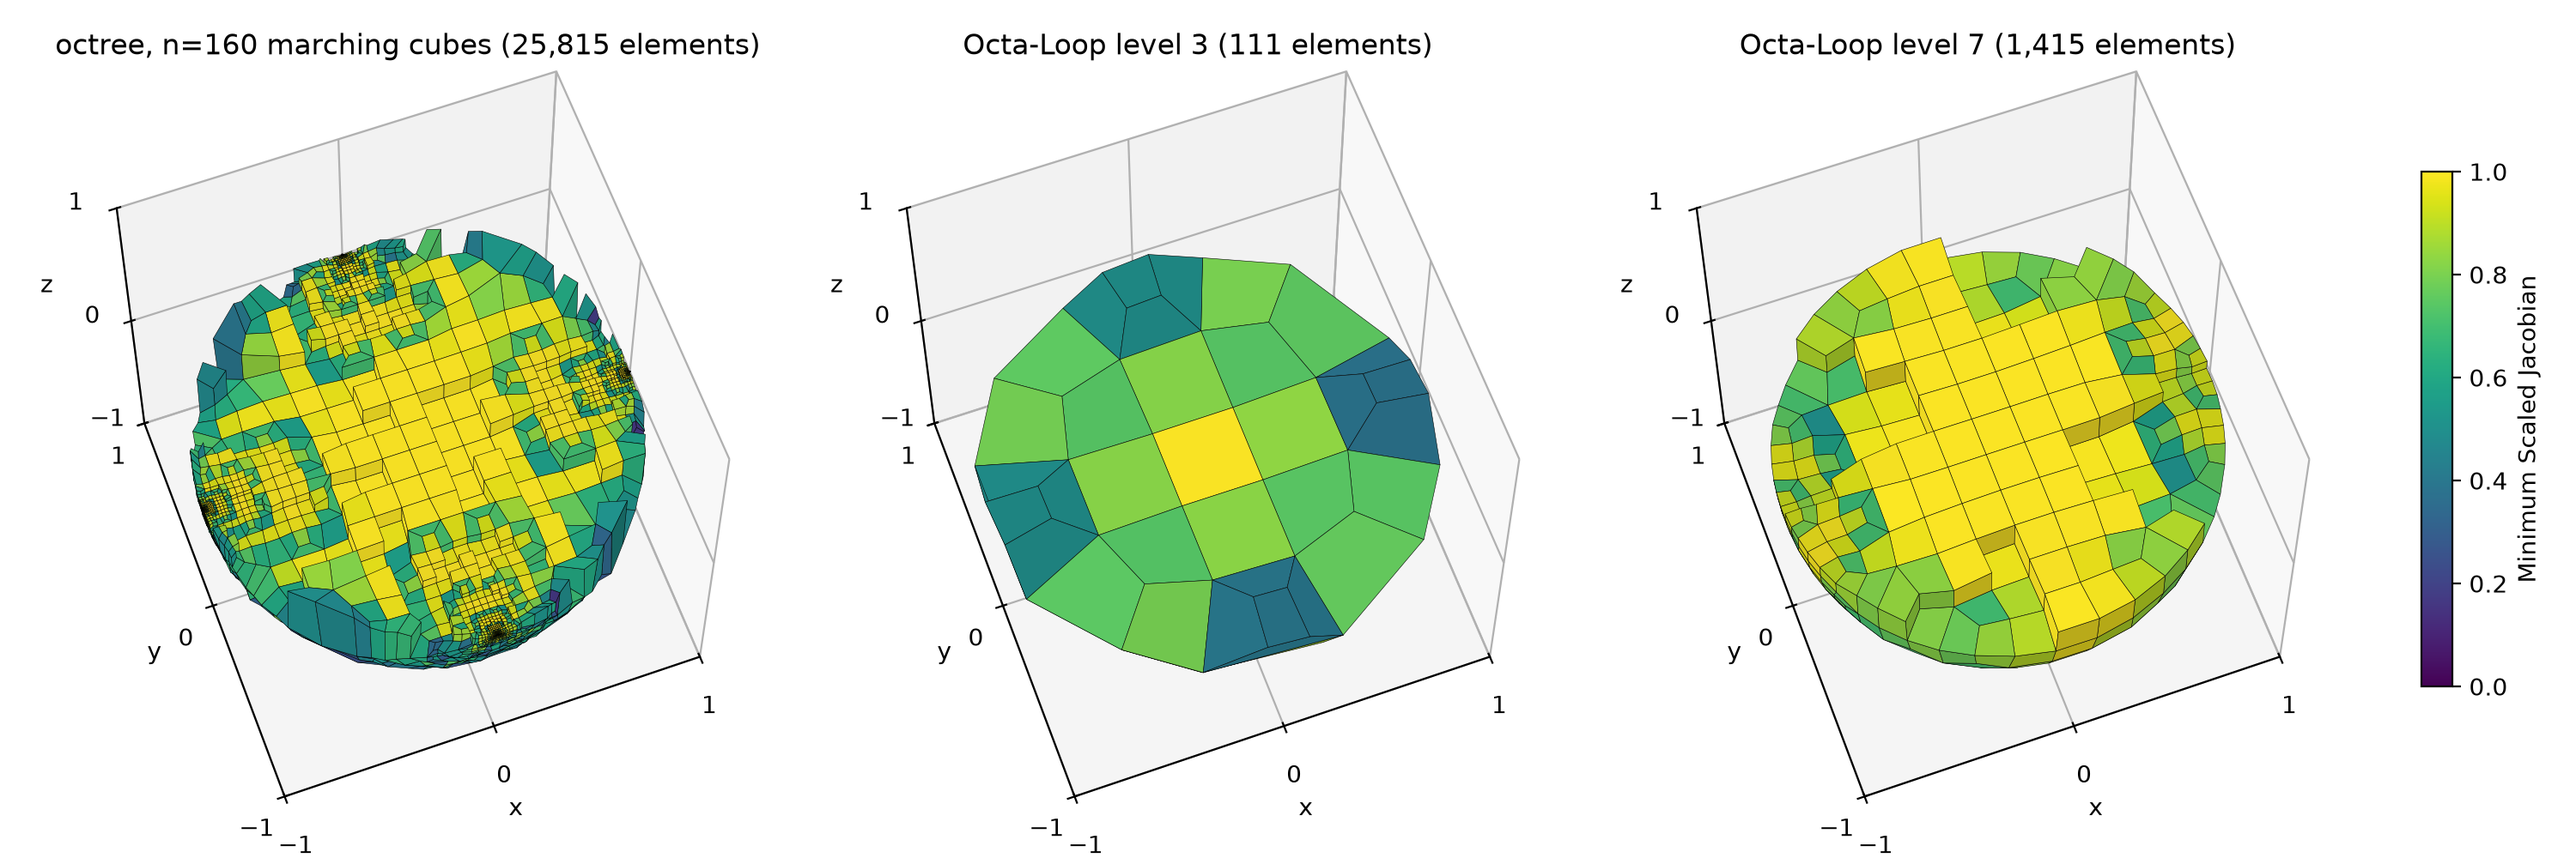
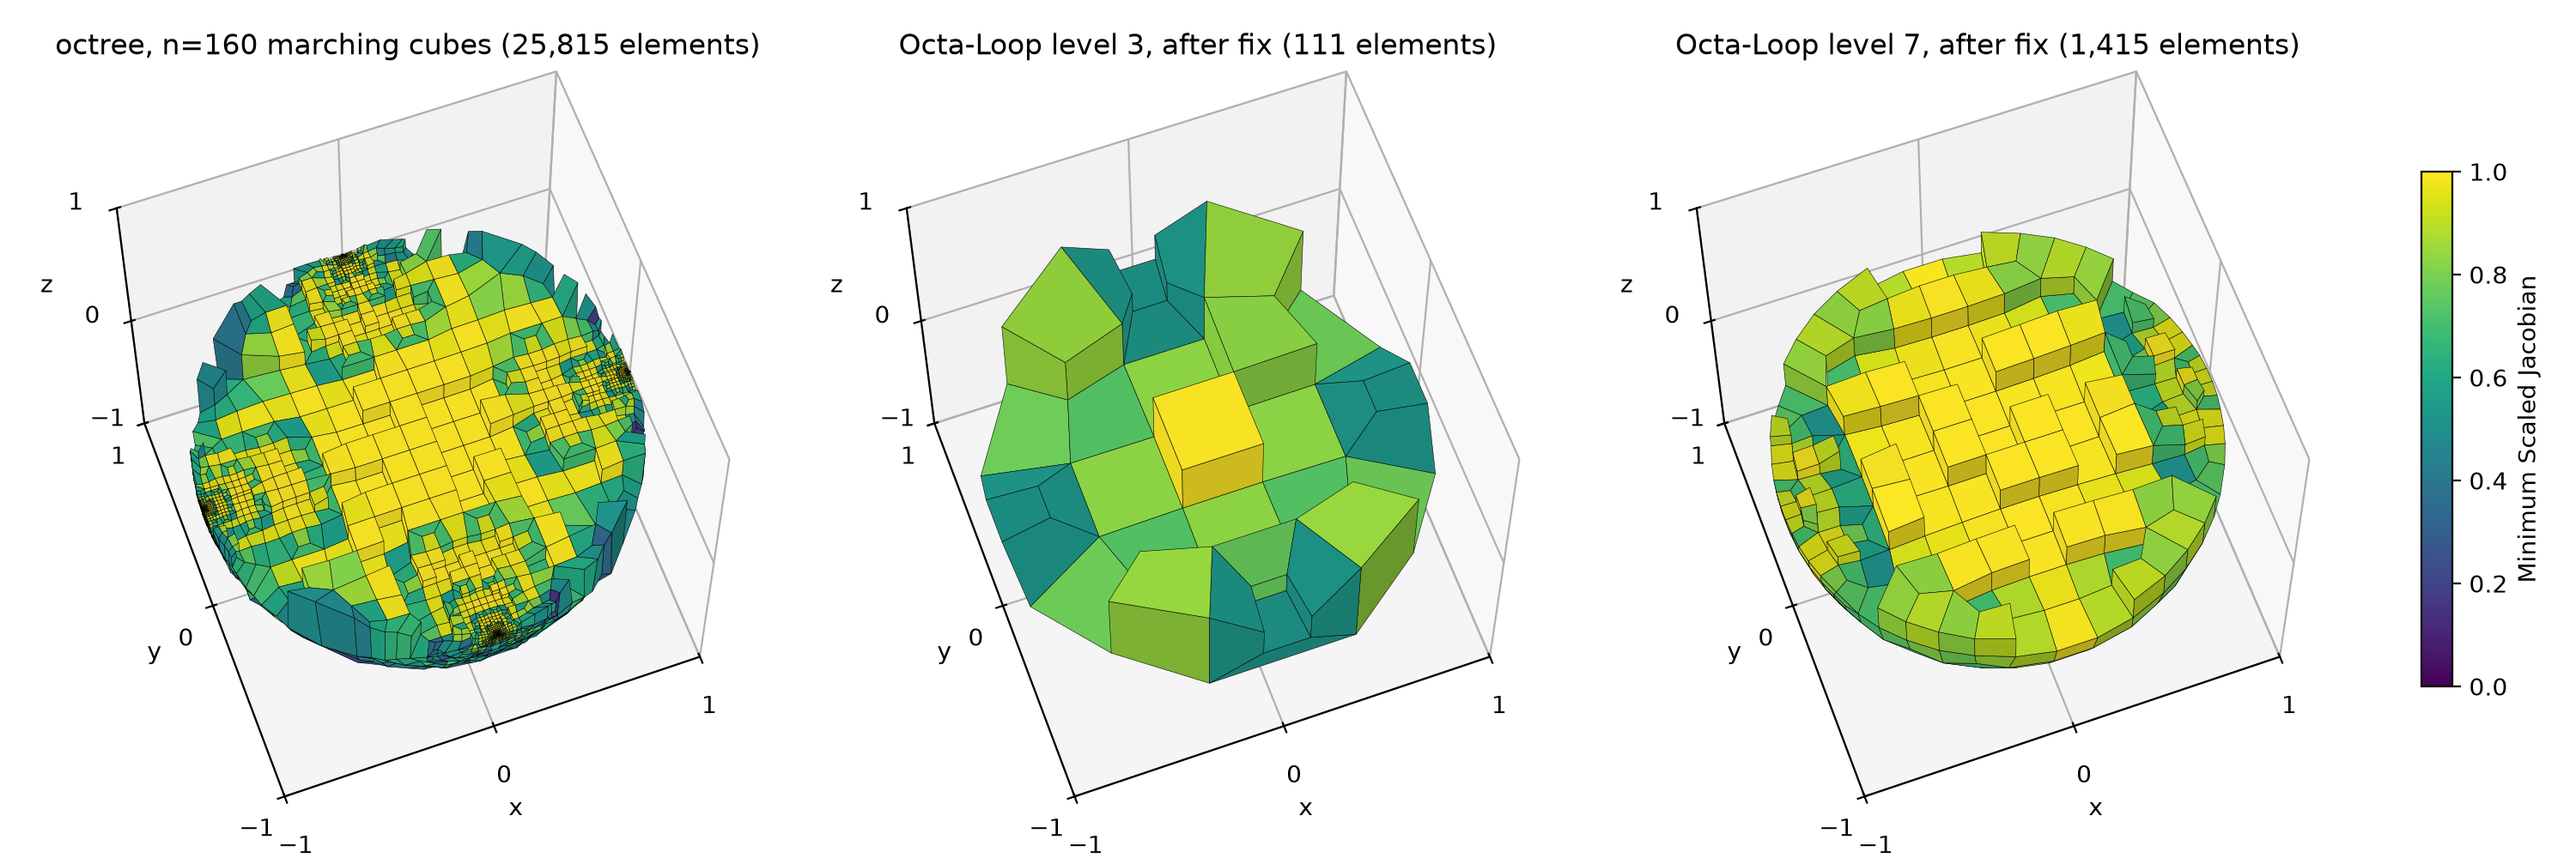
docs: rerun Octa-Loop controls with the conspire fix, keep the old results
Rerun the Octa-Loop level 3 and 7 octree meshes with the conspire fix of
Update 2.  Show the results from conspire 0.7.7 first, then the results
with the fix, so a reader can compare them.

Level 3 becomes exactly symmetric.  Its minimum scaled Jacobian rises
from 0.384 to 0.534, its mean from 0.749 to 0.767, and its largest skew
falls from 0.481 to 0.300.  Level 7 becomes exactly symmetric, and its
quality changes by 0.002 in the minimum.  The level 3 mesh volume rises
from 4.1909 to 4.2187, against 4.0926 for the input surface.  Update 3
records this cost.

Add a conspire column and before and after rows to the Control Study
table, and a second summary table above the Octa-Loop lists.  Present the
before-fix mesh, cut, and quality figures, then the after-fix ones.  The
marching cubes mesh and histogram curve still come from conspire 0.7.7,
and the page says so.

Extend unit_sphere_figures.py to draw both sets.  The before-fix set
reads unit_sphere_control_loopNN_pre_fix.inp and .csv.  With the original
panel titles, the script reproduced the three figures committed before
this change, byte for byte.  Panel titles now say "before fix" or "after
fix."  Add the three before-fix figures, and update the Reproducibility
section with the commands that make the before-fix meshes.

The after-fix meshes need an automesh built on a conspire that is not yet
released.  Update 3 describes the scratch build that made them.

diff --git a/book/examples/gallery/academic/unit_sphere_figures.py b/book/examples/gallery/academic/unit_sphere_figures.py
@@ -10,12 +10,19 @@
     unit_sphere_meshers_cut.png  the same meshes, cut at z = 0
     unit_sphere_quality.png      quality histograms of the n = 160 meshes
     unit_sphere_control.png      quality histograms of the octree control study
+    unit_sphere_control_pre_fix.png     the same, with the pre-fix Octa-Loop meshes
     unit_sphere_control_surfaces.png    the control study's three input surfaces
     unit_sphere_control_meshes.png      the control study's three octree meshes
     unit_sphere_control_meshes_cut.png  the same meshes, cut at z = 0
+    unit_sphere_control_meshes_pre_fix.png      the same meshes, pre-fix Octa-Loop
+    unit_sphere_control_meshes_cut_pre_fix.png  the pre-fix meshes, cut at z = 0
     unit_sphere_smooth_meshes.png       the octree meshes of the n = 160 surface, smoothed
     unit_sphere_smooth_meshes_cut.png   the same meshes, cut at z = 0
     unit_sphere_smooth_quality.png      quality histograms of the same three meshes
+
+The `_pre_fix` figures read `unit_sphere_control_loopNN_pre_fix.inp` and
+`.csv`.  Those files come from `automesh` built with `conspire` 0.7.7, before
+the fix of the Control Study.  See the Reproduce section of unit_sphere.md.
 
 Example
 -------
@@ -33,7 +40,9 @@ unit_sphere_convergence.png, unit_sphere_sculpt.png,
 unit_sphere_sculpt_cut.png, unit_sphere_meshers.png,
 unit_sphere_meshers_cut.png, unit_sphere_quality.png,
 unit_sphere_control.png, unit_sphere_control_surfaces.png,
-unit_sphere_control_meshes.png, unit_sphere_control_meshes_cut.png, unit_sphere_smooth_meshes.png,
+unit_sphere_control_pre_fix.png, unit_sphere_control_meshes.png,
+unit_sphere_control_meshes_cut.png, unit_sphere_control_meshes_pre_fix.png,
+unit_sphere_control_meshes_cut_pre_fix.png, unit_sphere_smooth_meshes.png,
 unit_sphere_smooth_meshes_cut.png, and unit_sphere_smooth_quality.png.
 """
 
@@ -71,8 +80,13 @@ MESHER_PANELS = (
 )
 CONTROL_PANELS = (
     ("octree, n=160 marching cubes", "unit_sphere_octree_n160"),
-    ("Octa-Loop level 3", "unit_sphere_control_loop03"),
-    ("Octa-Loop level 7", "unit_sphere_control_loop07"),
+    ("Octa-Loop level 3, after fix", "unit_sphere_control_loop03"),
+    ("Octa-Loop level 7, after fix", "unit_sphere_control_loop07"),
+)
+CONTROL_PANELS_PRE_FIX = (
+    ("octree, n=160 marching cubes", "unit_sphere_octree_n160"),
+    ("Octa-Loop level 3, before fix", "unit_sphere_control_loop03_pre_fix"),
+    ("Octa-Loop level 7, before fix", "unit_sphere_control_loop07_pre_fix"),
 )
 SMOOTH_PANELS = (
     ("octree, no smoothing", "unit_sphere_octree_n160"),
@@ -86,8 +100,13 @@ QUALITY_MESHES = (
 )
 CONTROL_MESHES = (
     ("octree, n=160 marching cubes", "unit_sphere_octree_n160.csv"),
-    ("octree, Octa-Loop level 3", "unit_sphere_control_loop03.csv"),
-    ("octree, Octa-Loop level 7", "unit_sphere_control_loop07.csv"),
+    ("Octa-Loop level 3, after fix", "unit_sphere_control_loop03.csv"),
+    ("Octa-Loop level 7, after fix", "unit_sphere_control_loop07.csv"),
+)
+CONTROL_MESHES_PRE_FIX = (
+    ("octree, n=160 marching cubes", "unit_sphere_octree_n160.csv"),
+    ("Octa-Loop level 3, before fix", "unit_sphere_control_loop03_pre_fix.csv"),
+    ("Octa-Loop level 7, before fix", "unit_sphere_control_loop07_pre_fix.csv"),
 )
 SMOOTH_MESHES = (
     ("octree, no smoothing", "unit_sphere_octree_n160.csv"),
@@ -505,6 +524,14 @@ def main() -> None:
         )
         meshes_plot(
             here=here,
+            panels=CONTROL_PANELS_PRE_FIX,
+            output="unit_sphere_control_meshes_cut_pre_fix.png"
+            if cut
+            else "unit_sphere_control_meshes_pre_fix.png",
+            cut=cut,
+        )
+        meshes_plot(
+            here=here,
             panels=SMOOTH_PANELS,
             output="unit_sphere_smooth_meshes_cut.png"
             if cut
@@ -513,6 +540,9 @@ def main() -> None:
         )
     quality_plot(here=here, meshes=QUALITY_MESHES, output="unit_sphere_quality.png")
     quality_plot(here=here, meshes=CONTROL_MESHES, output="unit_sphere_control.png")
+    quality_plot(
+        here=here, meshes=CONTROL_MESHES_PRE_FIX, output="unit_sphere_control_pre_fix.png"
+    )
     quality_plot(
         here=here, meshes=SMOOTH_MESHES, output="unit_sphere_smooth_quality.png"
     )

diff --git a/book/examples/gallery/academic/unit_sphere.md b/book/examples/gallery/academic/unit_sphere.md
@@ -599,35 +599,72 @@ staircase shows as concentric terrace rings around the top pole.  Octa-Loop
 level 3 shows its 512 flat facets.  Octa-Loop level 7 looks smooth.  The
 figure is produced by [`unit_sphere_figures.py`](#unit_sphere_figurespy).
 
-| surface | facets | facet edge (mean) | elements | MSJ min | MSJ mean |
-| :--- | ---: | ---: | ---: | ---: | ---: |
-| marching cubes, $n = 160$ | 964,568 | 0.00616 | 25,815 | −0.792 | 0.755 |
-| Octa-Loop level 3 | 512 | 0.23492 | 111 | 0.384 | 0.749 |
-| Octa-Loop level 7 | 131,072 | 0.01473 | 1,415 | 0.439 | 0.816 |
+| surface | `conspire` | facets | facet edge (mean) | elements | MSJ min | MSJ mean |
+| :--- | :--- | ---: | ---: | ---: | ---: | ---: |
+| marching cubes, $n = 160$ | 0.7.7 | 964,568 | 0.00616 | 25,815 | −0.792 | 0.755 |
+| Octa-Loop level 3, before fix | 0.7.7 | 512 | 0.23492 | 111 | 0.384 | 0.749 |
+| Octa-Loop level 3, after fix | fix | 512 | 0.23492 | 111 | 0.534 | 0.767 |
+| Octa-Loop level 7, before fix | 0.7.7 | 131,072 | 0.01473 | 1,415 | 0.439 | 0.816 |
+| Octa-Loop level 7, after fix | fix | 131,072 | 0.01473 | 1,415 | 0.441 | 0.816 |
+
+The before-fix rows and figures come from `conspire` 0.7.7.  The after-fix
+rows and figures come from a build of `conspire` with the fix of
+[Update 2](#update-2-2026-09-30), which is not yet released.  The marching
+cubes mesh comes from 0.7.7 in both sets.  See
+[Update 3](#update-3-2026-09-30).
+
+**Before the fix (`conspire` 0.7.7).**
+
+![unit_sphere_control_meshes_pre_fix.png](unit_sphere_control_meshes_pre_fix.png)
+
+Figure: The three `automesh` octree meshes shown with the element minimum
+scaled Jacobian, before the fix.  The $n = 160$ marching cubes surface (left),
+Octa-Loop level 3 (center), and Octa-Loop level 7 (right).  The marching cubes
+mesh has several small dark clusters of poor elements; neither control does.
+The Octa-Loop level 3 mesh is not symmetric across the coordinate planes.  The
+figure is produced by [`unit_sphere_figures.py`](#unit_sphere_figurespy).
+
+![unit_sphere_control_meshes_cut_pre_fix.png](unit_sphere_control_meshes_cut_pre_fix.png)
+
+Figure: A cut through the middle of the same three meshes, at $z = 0$, on
+the same scale, before the fix.  Only the elements whose centers lie below the
+plane are drawn.  The clusters from the full view sit at the boundary, dense
+knots of small elements; both controls stay coarse and regular throughout.
+The figure is produced by [`unit_sphere_figures.py`](#unit_sphere_figurespy).
+
+![unit_sphere_control_pre_fix.png](unit_sphere_control_pre_fix.png)
+
+Figure: Element quality of the octree meshing three surfaces, before the fix:
+the $n = 160$ marching cubes surface (solid, orange), Octa-Loop level 3
+(dashed, blue), and Octa-Loop level 7 (dotted, green).  Each panel is a
+histogram with a log scale on the count.  Only the marching cubes curve
+reaches below zero.  The figure is produced by
+[`unit_sphere_figures.py`](#unit_sphere_figurespy).
+
+**After the fix.**
 
 ![unit_sphere_control_meshes.png](unit_sphere_control_meshes.png)
 
-Figure: The three `automesh` octree meshes shown with the element minimum scaled
-Jacobian. The $n = 160$ marching cubes surface (left), Octa-Loop level 3 (center), and
-Octa-Loop level 7 (right).  The marching cubes mesh has several small dark
-clusters of poor elements; neither control does.  The figure is produced by
+Figure: The same three meshes after the fix.  The marching cubes mesh on the
+left is unchanged, from `conspire` 0.7.7.  The Octa-Loop level 3 mesh (center)
+is now symmetric across the coordinate planes, and its minimum scaled
+Jacobian rises from 0.384 to 0.534.  Level 7 (right) is also symmetric, and
+its quality changes by 0.002 in the minimum.  The figure is produced by
 [`unit_sphere_figures.py`](#unit_sphere_figurespy).
 
 ![unit_sphere_control_meshes_cut.png](unit_sphere_control_meshes_cut.png)
 
-Figure: A cut through the middle of the same three meshes, at $z = 0$, on
-the same scale.  Only the elements whose centers lie below the plane are
-drawn.  The clusters from the full view sit at the boundary, dense knots of
-small elements; both controls stay coarse and regular throughout.  The
-figure is produced by [`unit_sphere_figures.py`](#unit_sphere_figurespy).
+Figure: A cut through the middle of the same three meshes after the fix, at
+$z = 0$, on the same scale as the before-fix cut.  The marching cubes mesh is
+unchanged.  The figure is produced by
+[`unit_sphere_figures.py`](#unit_sphere_figurespy).
 
 ![unit_sphere_control.png](unit_sphere_control.png)
 
-Figure: Element quality of the octree meshing three surfaces: the $n = 160$
-marching cubes surface (solid, orange), Octa-Loop level 3 (dashed, blue),
-and Octa-Loop level 7 (dotted, green).  Each panel is a histogram with a log
-scale on the count.  Only the marching cubes curve reaches below zero.  The
-figure is produced by
+Figure: Element quality of the same three meshes after the fix, in the same
+styles and scales as the before-fix figure.  The Octa-Loop level 3 elements
+now come in symmetric groups of equal quality, so that curve has fewer and
+taller bars.  The figure is produced by
 [`unit_sphere_figures.py`](#unit_sphere_figurespy).
 
 Neither control mesh inverts an element.  Both stay at or above Sculpt's own
@@ -643,12 +680,23 @@ fixed-size lattice and never calls the octree or the shape diameter
 function, so it says nothing about why the uniform lattice's own quality
 also lags Sculpt's.
 
+| surface | `conspire` | elements | MSJ min | MSJ mean |
+| :--- | :--- | ---: | ---: | ---: |
+| marching cubes, $n = 160$ | 0.7.7 | 25,815 | −0.792 | 0.755 |
+| Octa-Loop level 3, before fix | 0.7.7 | 111 | 0.384 | 0.749 |
+| Octa-Loop level 3, after fix | fix | 111 | 0.534 | 0.767 |
+| Octa-Loop level 7, before fix | 0.7.7 | 1,415 | 0.439 | 0.816 |
+| Octa-Loop level 7, after fix | fix | 1,415 | 0.441 | 0.816 |
+
 **Octa-Loop level 3:**
 
 **Correction, 2026-09-30.**  Text struck through below states a cause that
 later experiments refuted.  It stays visible for the record.  The
 [Update](#update-2026-09-30) after the Observations gives the evidence.
 [Update 2](#update-2-2026-09-30) corrects two conclusions of that update.
+Everything in the two Octa-Loop lists and the Observations describes
+`conspire` 0.7.7 and the before-fix figures.  The table and the figures above
+also show the fix, from [Update 3](#update-3-2026-09-30).
 
 1. The Octa-Loop level 3 mesh (center panel) is visibly not symmetric across
    the $xy$, $yz$, and $zx$ planes, unlike the other meshes on this page.
@@ -850,12 +898,67 @@ Update 1 state the conclusions that this update replaces.
    times a nearest-point query, against 1.46 to 1.84 times for two walks.
    End-to-end times vary from $-3$% to $+12$% in single runs, because the
    optimizer takes a different path once the targets change.
-5. **Status and limits.**  `automesh` still pins `conspire` 0.7.7, so the
+5. **Status and limits.**  `automesh` still pins `conspire` 0.7.7.  ~~So the
    tables on this page keep their 0.7.7 values until the fix ships.  Then
-   the scripts must run again.  The constraint covers mirror planes
+   the scripts must run again.~~  [Update 3](#update-3-2026-09-30) reruns
+   the two Octa-Loop rows with the fix.  The constraint covers mirror planes
    perpendicular to the coordinate axes.  It does not cover rotational
    symmetry.  The second `fit` of `--snap` runs unconstrained, and the
    effect of `--snap` has not been measured.
+
+#### Update 3, 2026-09-30
+
+This update reruns the two Octa-Loop meshes with the fix of Update 2.  It
+adds the after-fix rows to the table and the three after-fix figures.  The
+before-fix rows and figures stay beside them for comparison.
+
+`automesh` 0.4.7 pins `conspire` 0.7.7.  So the rerun used a scratch copy of
+`automesh` built against the `conspire` branch of Update 2.  The branch moved
+`Dualization` from `ntree` to `mesh`, and `automesh` needed that two-line
+import change to compile.  The repository source did not change.
+The copy meshed both surfaces through `hex_write` in
+[`unit_sphere_mesh.py`](#unit_sphere_meshpy), with default options.  Before
+the rerun, the installed `automesh` reproduced the old rows exactly: 111
+elements with 0.384 and 0.749 at level 3, and 1,415 with 0.439 and 0.816 at
+level 7.
+
+| mesh | `conspire` | elements | MSJ min | MSJ mean | max edge ratio | max skew | mirror mismatch |
+| :--- | :--- | ---: | ---: | ---: | ---: | ---: | :--- |
+| Octa-Loop level 3 | 0.7.7 | 111 | 0.384 | 0.749 | 4.22 | 0.481 | 0.2348, 0.2348, 0.2725 |
+| Octa-Loop level 3 | fix | 111 | **0.534** | **0.767** | 4.15 | 0.300 | **0, 0, 0** |
+| Octa-Loop level 7 | 0.7.7 | 1,415 | 0.439 | 0.816 | 3.61 | 0.679 | 0.0143, 0.0143, 0.0143 |
+| Octa-Loop level 7 | fix | 1,415 | 0.441 | 0.816 | 3.60 | 0.678 | **0, 0, 0** |
+
+The mirror mismatch is the largest distance from a reflected node to the
+nearest node, for the $x$, $y$, and $z$ reflections, measured on the nodes
+that `automesh` wrote.
+
+1. **Level 3 improves in symmetry and in quality.**  The mesh is now
+   exactly symmetric.  The minimum scaled Jacobian rises by 0.150, the mean
+   by 0.018, and the largest skew falls from 0.481 to 0.300.  The element
+   count does not change.  The center panel of the first after-fix figure
+   shows the symmetric mesh.
+2. **Level 7 changes in symmetry only.**  The mismatch falls from 0.0143 to
+   exactly 0.  The quality changes by 0.002 in the minimum and not at all in
+   the mean.
+3. **Level 3 gets less accurate in volume.**  The input surface encloses
+   4.0926, which is 2.30% below the exact $4\pi/3 \approx 4.1888$.  The old
+   mesh encloses 4.1909, which is 2.40% above the surface and 0.05% above the
+   sphere.  The two errors nearly cancelled.  The new mesh encloses 4.2187,
+   which is 3.08% above the surface and 0.71% above the sphere.  At level 7,
+   the volume goes from 4.2036 to 4.2039, which is 0.37% above the surface.
+   The cause at level 3 is not isolated.
+4. **The table now mixes two `conspire` builds.**  The marching cubes row,
+   and the marching cubes curve of the quality histogram, still come from
+   `conspire` 0.7.7.  Rerunning them with the fix would change every
+   marching cubes result on this page, so this update leaves them alone.
+   The smoothing section and its figures are unchanged.
+5. **The before-fix figures are reproducible.**  `unit_sphere_figures.py`
+   draws both sets.  It reads the saved before-fix meshes,
+   `unit_sphere_control_loopNN_pre_fix.inp` and `.csv`.  With the original
+   panel titles, it reproduced the three before-fix figures that were
+   committed to this repository, byte for byte.  The titles of both sets now
+   say "before fix" or "after fix."
 
 ## Marching Cubes Surface Smoothing
 
@@ -1081,6 +1184,22 @@ meshes take about two of those minutes, most of it in the adaptive octree.
 `unit_sphere_smooth.py` adds 4 minutes 20 seconds, for its 35 octree meshes.  The timing table in
 [Why Lewiner?](#why-lewiner) depends on the machine.  Every other number on
 the page comes out the same on each run.
+
+The Control Study also draws the Octa-Loop meshes from before the fix.  Those
+meshes come from `automesh` built on `conspire` 0.7.7, which is the released
+build.  Make them with the released `automesh`.
+
+```sh
+for L in 03 07; do
+  automesh mesh hex -i octa_loop$L.stl -o unit_sphere_control_loop${L}_pre_fix.inp \
+    --metrics unit_sphere_control_loop${L}_pre_fix.csv -q
+done
+```
+
+The after-fix meshes need `automesh` built on `conspire` with the fix of
+[Update 2](#update-2-2026-09-30), which is not yet released.  With the
+released `automesh`, `unit_sphere_mesh.py` writes the unsuffixed Octa-Loop
+meshes with the before-fix result.  See [Update 3](#update-3-2026-09-30).
 
 The generated meshes, segmentations, and metrics are not stored with the
 book.  Only the figures are.
